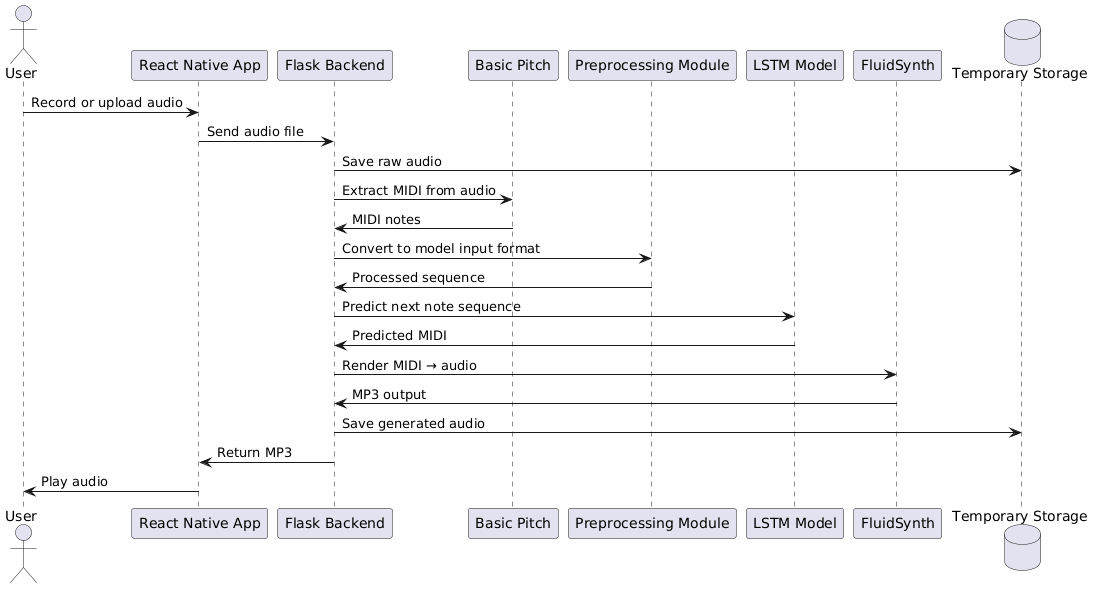
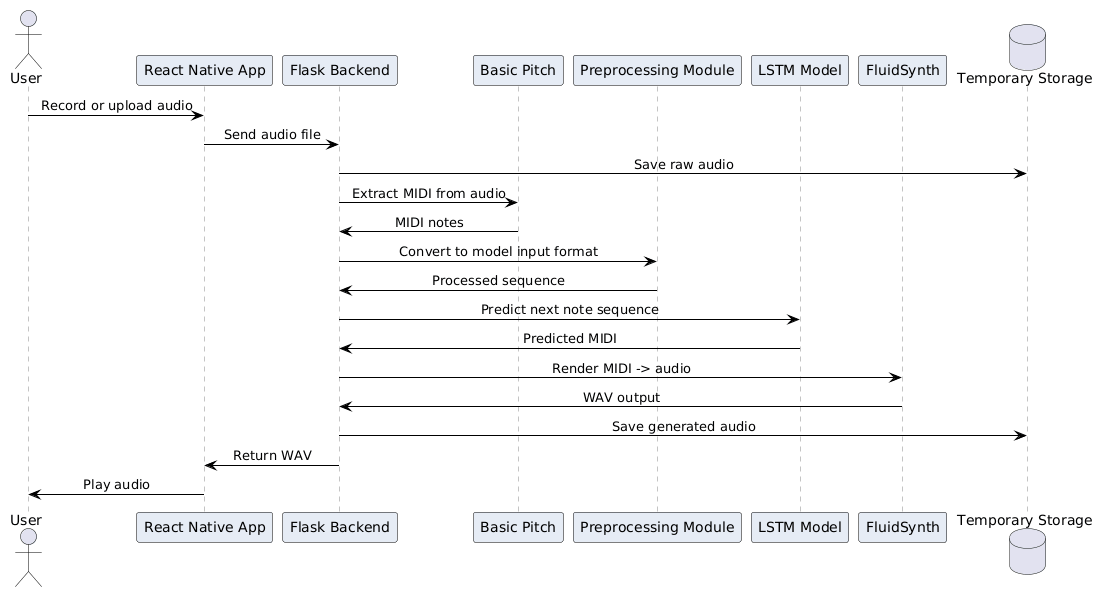
Fix temperature extraction

diff --git a/frontend/app/index.tsx b/frontend/app/index.tsx
@@ -139,6 +139,8 @@ export default function Index() {
         type: mimeType,
       } as any);
 
+      formData.append("temperature", temperature.toString());
+
       // Sending request to the Flask server
       // Using the machine's local IP address so physical devices on the same network can connect
       const response = await fetch("http://192.168.1.244:5000/generate", {
@@ -260,13 +262,13 @@ export default function Index() {
                 fontSize: 13,
               }}
             >
-              Generation Temperature: {temperature.toFixed(1)}
+              Generation Creativity: {temperature.toFixed(1)}
             </Text>
 
             <Slider
               style={{ width: "100%", height: 50 }}
               minimumValue={0.1}
-              maximumValue={0.9}
+              maximumValue={10}
               step={0.1}
               value={temperature}
               onValueChange={(temp) => setTemperature(temp)}
@@ -359,7 +361,7 @@ export default function Index() {
           {recorderState.isRecording
             ? "Recording in progress..."
             : recordedFile
-              ? "Configure the model temperature and generate your musical phrase."
+              ? "Configure the creativity and generate your musical phrase."
               : "Record or upload a musical phrase to begin the generation process."}
         </Text>
       </View>

diff --git a/model/server.py b/model/server.py
@@ -20,6 +20,7 @@ def upload_file():
             print("No file uploaded.")
             return redirect(request.url)
         file = request.files["file"]
+        temperature = request.form.get("temperature", default=0.3, type=float)
         if file.filename == '':
             print("No file uploaded.")
             return redirect(request.url)
@@ -42,23 +43,10 @@ def upload_file():
             processed_input = process_input(input_path.name)
             mg = MelodyGenerator()
             seed = processed_input
-            melody = mg.generate_melody(seed, 50, SEQUENCE_LENGTH, 0.3)
+            print(temperature)
+            melody = mg.generate_melody(seed, 50, SEQUENCE_LENGTH, temperature)
             mg.save_melody(melody, file_name=output_path.name)
 
-            import platform
-            import midi2audio
-            
-            if platform.system() == "Windows":
-                # Points to the SoundFont file you downloaded into your model folder
-                soundfont_path = "model/default-GM.sf2"
-                
-                # Forces the midi2audio tool to use your Windows fluidsynth application
-                midi2audio.FLUIDSYNTH_CMD = r"C:\Users\yehya\projects\myenv\project\markov-music\fluidsynth\bin\fluidsynth.exe"
-                fs = FluidSynth(soundfont_path)
-            else:
-                # Keeps your friend's original Linux system settings intact
-                soundfont_path = "/usr/share/sounds/sf2/default-GM.sf2"
-                fs = FluidSynth(soundfont_path)
             fs = FluidSynth("/usr/share/sounds/sf2/default-GM.sf2")
             fs.midi_to_audio(output_path.name, output_audio.name)
 
